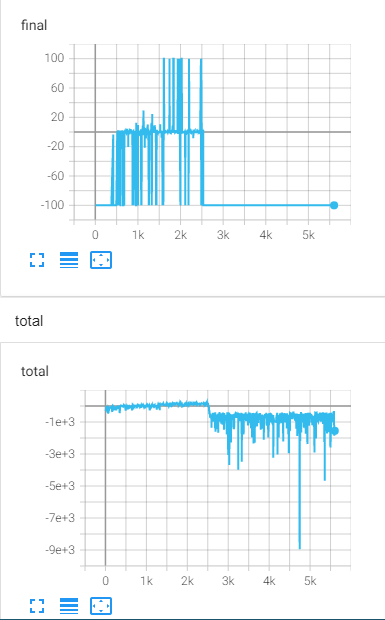
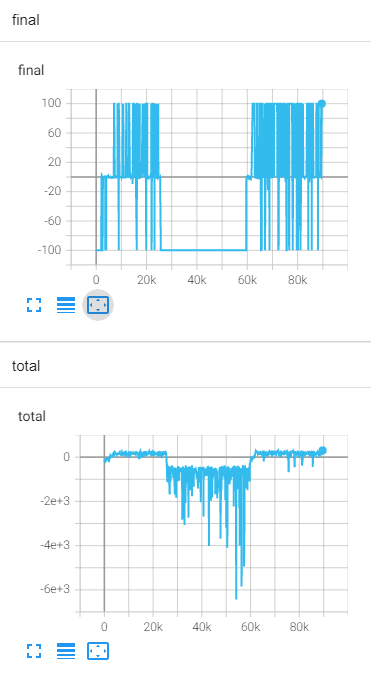
更改readme

diff --git a/README.md b/README.md
@@ -14,5 +14,5 @@ the ppo result is like:
 # 一些分析
 对于a2c来说，learning rate不能过大，在小learning rate情况下表现稳定，如下图：
 ![](img/a2c.PNG)
-对于ac来说，参数仍需要调整，在后期会有崩溃情况出现，在使用mc算reward时，会有崩溃现象发生，如下图：
+对于ac来说，参数仍需要调整，在后期会有崩溃情况出现，在使用mc算reward时，会有崩溃现象发生，如下图，但是神奇的是，崩溃后会恢复，应该是从local min跳出来了：
 ![](img/ac_mc.PNG)
